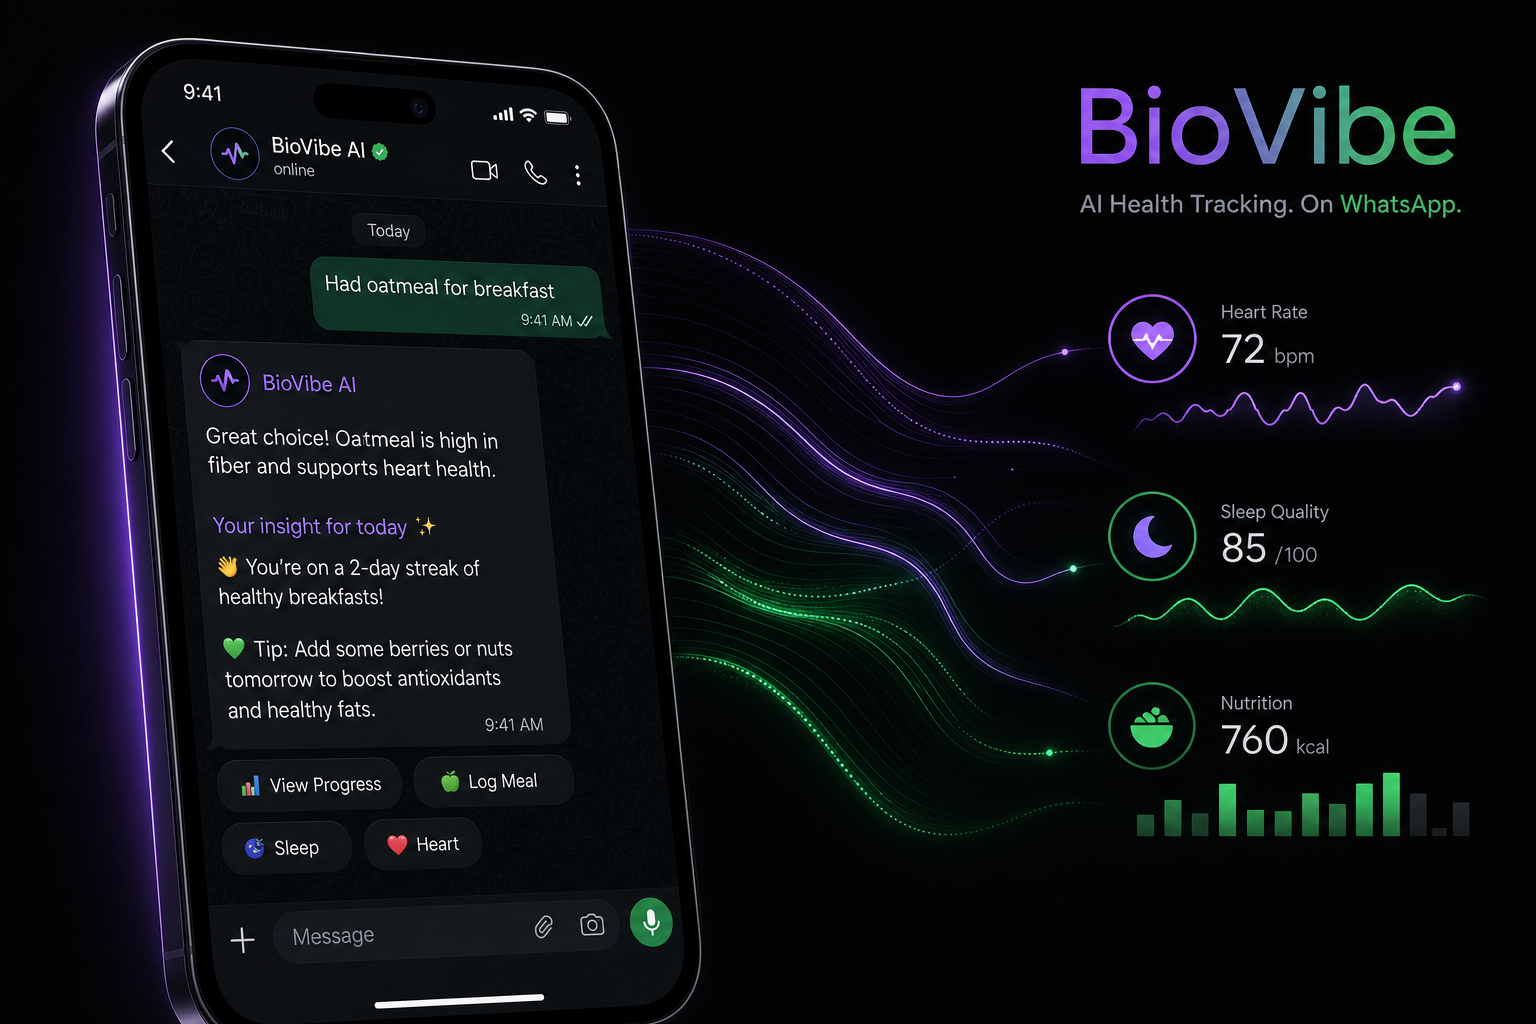
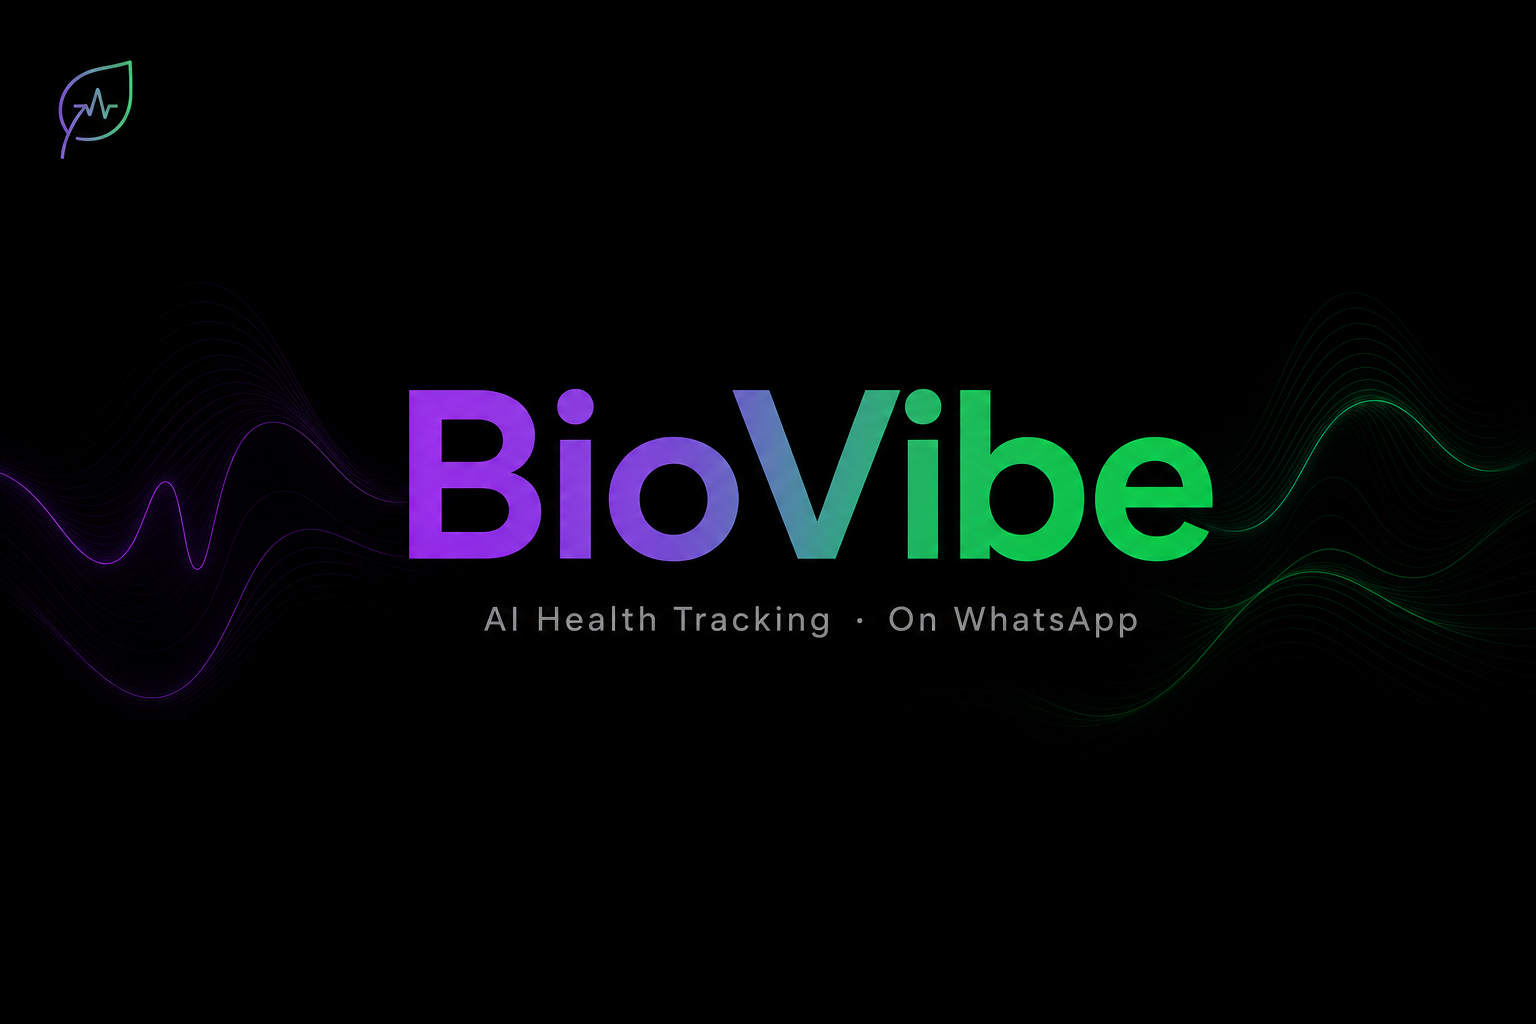
feat: new clean hero image and shorter welcome message

diff --git a/app/bot.py b/app/bot.py
@@ -91,11 +91,8 @@ async def handle_inbound(msg: KapsoMessage, client: KapsoClient) -> None:
             msg.phone_number,
             body_text=(
                 "Welcome to BioVibe! 🌱\n\n"
-                "I'm your AI health tracking assistant. You can:\n\n"
-                "• Log what you eat, how you feel, workouts, sleep\n"
-                "• Ask health questions and get personalized insights\n"
-                "• Build a health history over time\n\n"
-                "Want to set up your profile first for a more personalized experience?"
+                "Your AI health companion on WhatsApp. Log meals, symptoms, workouts and sleep — I'll remember everything and give you personalized insights.\n\n"
+                "Want to set up your profile for a better experience?"
             ),
             buttons=[{"id": _PROFILE_SETUP_BTN_ID, "title": "Set up my profile ✨"}],
             footer="Or just start chatting — I learn as we go!",